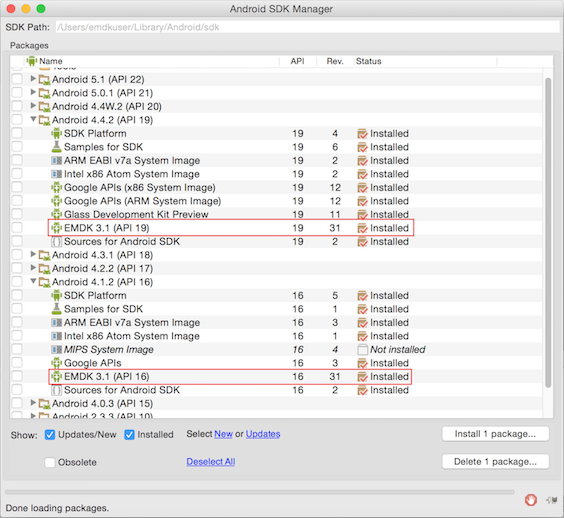
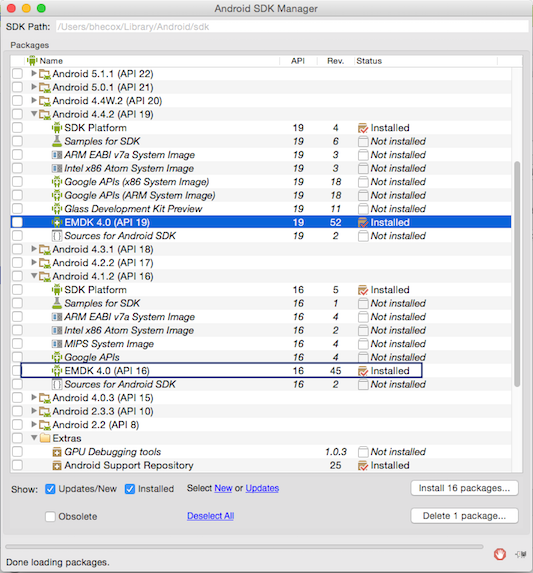
Mac setup updated for 4.0
Mac zip download url must be updated before release

Changed region(s): [[0.0, 0.0, 1.0, 0.9266], [0.0, 0.9266, 0.9906, 1.0]]

diff --git a/src/emdk-for-android/4-0/guide/setupAndroidStudioMac/index.md b/src/emdk-for-android/4-0/guide/setupAndroidStudioMac/index.md
@@ -4,10 +4,11 @@ title: EMDK For Android Setup on Mac
 
 
 ##Removing previous EMDK installations
+>Note: Prevous versions of the EMDK for Android should be removed before installing v4.0
 
 **Removing SDK add-ons**
 1. Navigate to the /Users/<user>/Library/Android/sdk/add-ons directory.
-2.Remove addon-symbol-emdk_v3.1_API-16/ addon-symbol-emdk_v3.1_API-19 folders.
+2. Remove addon-symbol-emdk_v3.1_API-16/ addon-symbol-emdk_v3.1_API-19 folders.
 
 **Removing Wizard Core**
 1. Navigate to /Users/Shared directory.
@@ -23,8 +24,7 @@ title: EMDK For Android Setup on Mac
 ##Installing Android Studio 
 
 1. Go to http://developer.android.com/sdk/index.html.
-
-
+≠
 	![img](/img/setup/mac/image3.png)
 
 2. Click on the "Download Android Studio for Mac" button.
@@ -50,58 +50,57 @@ If you need to use the Android SDK tools from a command line, you can access the
 
 In order to develop EMDK apps on Android Studio, API's 16 and 19 Android platforms and Android SDK Build-tools revision 21.1.x or newer must be downloaded and installed.
 
-###How to determine which API platforms are installed in Android Studio
+###How to determine which the installed APIs platforms  in Android Studio
 
 1. Launch Android Studio from Applications
 2. Go to Tools / Android / SDK Manager
 3. Then click **Launch Standalone SDK Manager** link at the bottom of the Android SDK settings page
-3. Check that the status of Android 4.1.2 (API 16) and Android 4.4.2 (API 19) SDK Platforms is "Installed".
-4. If either SDK platform is not installed check the SDK check mark, click Install Packages, and follow the on screen instructions. When the install is complete, restart Android Studio.
+4. Check that the status of Android 4.1.2 (API 16) and Android 4.4.2 (API 19) SDK Platforms is "Installed".
+5. If either SDK platform is not installed check the SDK check mark, click Install Packages, and follow the on-screen instructions. When the install is complete, restart Android Studio.
 
 	![img](/img/setup/mac/image4.png)
 
 
-###How to determine which Build-tools is installed in Android Studio
+###How to determine the Build-tools version installed in Android Studio
 
-1. Launch Android Studio from Start Programs
+1. Launch Android Studio from Applications
 2. Go to Tools / Android / SDK Manager
 3. Check the status of Android SDK Build-tools 21.1.x or newer is "Installed".
 4. If Android SDK Build-tools 21.1.x or newer is not installed check the SDK check mark, click Install Packages, and follow the on screen instructions. When the install is complete, restart Android Studio.
 
 	![img](/img/setup/mac/image5.png)
 
-##Installing EMDK v3.1
+##Installing EMDK v4.0
 
 ###Prerequisites
 
 - Android Studio 1.1.x or newer
 	- Android API 16, API 19 platforms
-	- Android SDK Build-tools 21.1.x or newer
+	- Android SDK Build-tools 21.1.x or newer	
+	
+###Download the EMDK for Android 4.0 MAC install files
 
-The following items can be found in [EMDK 3.1 for Mac installation zip file](https://s3.amazonaws.com/emdk/EMDK_3.1_MAC.zip):
+1. Download the [EMDK for Android 4.0 MAC install files]()
+2. Extract the downloaded zip file and make note of the path to the extracted files. This path will be refered to as **EMDK_FILES** for the rest of this guide.
 
-- EMDK add-ons
-	 - \SDK\addon-symbol-emdk_v3.1_API-16
-	 - \SDK\aaddon-symbol-emdk_v3.1_API-19
-- EMDK Wizard core components
-	- \Symbol EMDK for Android
-- EMDK Wizard plug-in for Android Studio
-	- \Android Studio\com.symbol.emdk.wizard.intellijIdea_3.1_20
-- EMDK device runtime
-	- \Device Update\EmdkOSUpdateApp_v3.1.32.apk
+The extracted folder will contain the following files
+- EMDK add-ons (“\EMDK_4.0_12172015_MAC\SDK\addon-symbol-emdk_v4.0_API-16/ “addon-symbol-emdk_v4.0_API-19”)
+- EMDK Wizard core components (“\EMDK_4.0_12172015_MAC\Symbol EMDK for Android”)
+- EMDK Wizard plug-in for Android Studio (“\EMDK_4.0_12172015_MAC\Android Studio\ com.symbol.emdk.wizard.intellijIdea”)
+- EMDK device runtime (“\EMDK_4.0_12172015_MAC\Device Update\ EmdkOSUpdateApp_v4.0.3.apk”)
 
->NOTE: Instructions for installing EmdkOSUpdate on Mac can be found in [Device Setup](/emdk-for-android/4-0/guide/setupDevice).
+>NOTE: Instructions for installing EmdkOSUpdate on Mac can be found in the [Device Setup](/emdk-for-android/4-0/guide/setupDevice) guide.
 
 ###EMDK SDK add-on Integration
-To add the EMDK 3.1 APIs to the Android SDK please refer the following instructions:
 
+Add EMDK 4.0 APIs to the Android SDK
 1. Navigate to the /Users/**username**/Library/Android/sdk/add-ons directory.
 
 	![img](/img/setup/mac/image6.png)
 
-2. Copy the addon-symbol-emdk_v3.1_API-16 and addon-symbol-emdk_v3.1_API-19 folders into the add-ons directory.
-
-	![img](/img/setup/mac/image7.png)
+2. Copy the following EMDK sdk addon folders from **EMDK\_FILES/SDK/** into the add-ons directory.
+	- addon-symbol-emdk\_v4.0_API-16
+	- addon-symbol-emdk\_v4.0_API-19 
 
 3. Exit & Launch Android Studio
 4. Go to Tools > Android > SDK Manager
@@ -111,21 +110,18 @@ Now the integrated EMDK add-ons should appear in the SDK Manager
 
 ###EMDK Wizard plug-in Integration
 
-Configuring Mac OS X with EMDK Wizard core components
+**Configuring Mac OS X with EMDK Wizard core components**
 
 1. Locate the /Users/Shared folder.
 
 	![img](/img/setup/mac/image10.png)
 
-2. Copy Symbol EMDK for Android folder into the /Users/Shared folder.
+2. Copy **EMDK\_FILES/Symbol EMDK for Android** folder into the /Users/Shared folder.
 
-	![img](/img/setup/mac/image11.png)
 
-EMDK Wizard plug-in integration into Android Studio
+**Integrate the EMDK Wizard plug-in into Android Studio**
 
-1. Launch Finder and go to Applications (on the left side panel)
-
-	![img](/img/setup/mac/image12.png)
+1. Launch Finder and go to the Applications folder.
 
 2. Locate Android Studio.app, right click and select Show Package Contents.
 
@@ -135,104 +131,17 @@ EMDK Wizard plug-in integration into Android Studio
 
 	![img](/img/setup/mac/image14.png)
 
-5. Copy the com.symbol.emdk.wizard.intellijIdea_3.1.xx folder into the plugins directory.
+4. Copy com.symbol.emdk.wizard.intellijIdea\_x.x.xx folder from **EMDK\_FILES/Andoid Studio** into the plugins directory.
 
-	![img](/img/setup/mac/image15.png)
-
-6. Exit & Launch Android Studio.
+5. Exit & Launch Android Studio.
 
 Now the “EMDK” menu should appear in the Android Studio menu bar:
 
 ![img](/img/setup/mac/image16.png)
 
+7.	Launch EMDK -> About to see installed EMDK Wizard components.
 
-##Installing EMDK v3.1 Update1
-
-###Prerequisites
-- [EMDK for Android 3.1](https://s3.amazonaws.com/emdk/EMDK_3.1_MAC.zip) - (Follow instructions above)
-
-The following items can be found in [EMDK 3.1 Update1 for Mac installation zip file](https://s3.amazonaws.com/emdk/EMDK_3.1_UPDATE1_MAC.zip):
-
-- EMDK add-ons
-	 - \SDK\aaddon-symbol-emdk_v3.1_API-19
-- EMDK Wizard core components
-	- \Symbol EMDK for Android\
-- EMDK device runtime
-	- \Device Update\EmdkOSUpdateApp_v3.1.36.apk
-
->NOTE: Instructions for installing EmdkOSUpdate on Mac can be found in [Device Setup](/emdk-for-android/4-0/guide/setupDevice).
-
-###Manual Installation
-
-1. Install the full [EMDK for Android 3.1](https://s3.amazonaws.com/emdk/EMDK_3.1_MAC.zip)  (refer to instructions above)
-2. Download and unzip [EMDK for Android 3.1 Update1](https://s3.amazonaws.com/emdk/EMDK_3.1_UPDATE1_MAC.zip)
-3. Update the SDK Add-on by copying the contents of \SDK\ to /Users/<user>/Library/Android/sdk/add-ons/
-		>NOTE: this update is for API 19 only
-
-4. Update the EMDK Wizard plug-in by copying the contents of \Symbol EMDK for Android\ to /Users/Shared/Symbol EMDK for Android/
-
-
-
-
-##Resolving JDK version conflict
-
-This section will provide the required steps to modify the Info.plist of the Android Studio.app, in order to enable the support for plug-ins built using **JDK 7**.
-
-Android Studio 1.1.0 is configured with **JDK 6**. Once the EMDK Wizard plug-in has been installed on Android Studio, if there is a JDK version conflict the following symptoms can be observed.
-
-Notification stating an internal IDE error.
-
-![img](/img/setup/mac/image18.png)
-
-Empty EMDK Wizard menu
-
-![img](/img/setup/mac/image19.png)
-
-
-
-If these symptoms are observed check the JRE version used by the Android studio. Please refer the following steps:
-
-1. Click on Android Studio > About Android Studio
-
-	![img](/img/setup/mac/image20.png)
-
-2. Check the JRE version
-
-	![img](/img/setup/mac/image21.png)
-
-
-
-If the JRE version is 1.6.x the EMDK Wizard plug-in for Android studio will fail. Hence, to solve this issue the info.plist of the Android Studio app will have to be configured. The configuration change will set the JRE version used by Android Studio as 1.7.x. Please refer the following steps:
-
-1. Launch Finder > click on Applications on the left side pane > locate the Android Studio.app
-
-	![img](/img/setup/mac/image22.png)
-
-
-2. Right click on the Android Studio.app > select Show Package Contents
-
-	![img](/img/setup/mac/image23.png)
-
-3. Expand the Contents directory > create a backup copy of the Info.plist > open the Info.plist using a text editor
-
-	![img](/img/setup/mac/image24.png)
-
-	![img](/img/setup/mac/image25.png)
-
-
-4. Search and locate the <key>JVMVersion</key> entry > change the 1.6* to 1.6+ > Save the file and exit the editor.
-
-	![img](/img/setup/mac/image26.png)
-
-
-5. Exit and launch the Android Studio IDE and check the EMDK Wizard menu item, it should be visible now.
-
-	![img](/img/setup/mac/image27.png)
-
-6. Additionally check the JRE version of the Android Studio; it should now be 1.7.x.
-
-	![img](/img/setup/mac/image28.png)
-
+![img](/img/setup/mac/emdk_about.png)
 
 
 ##Configuring ADB connectivity with Symbol Android devices on Mac OSX

diff --git a/src/emdk-for-android/4-0/guide/setupDevice/index.md b/src/emdk-for-android/4-0/guide/setupDevice/index.md
@@ -14,7 +14,7 @@ title:  Configuring A Device
 
 ###MAC
 >Note: Please substitute the current version of the EmdkOSUpdateApp APK when EmdkOSUpdateApp_vX.X.X.apk is referenced.
-d
+
 1. Open finder and copy EmdkOSUpdateApp_vX.X.X.apk  into the ADB directory.
 
 	`/Users/<user>/Library/Android/sdk/platform-tools/`
